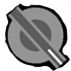
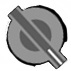
Knob graphic improved; layout changes

Changed region(s): [[0.0563, 0.0282, 0.5634, 0.6479], [0.8169, 0.5634, 0.9859, 0.9859], [0.4789, 0.8732, 0.7887, 1.0]]

diff --git a/js/main.js b/js/main.js
@@ -11,6 +11,8 @@ var down = 0;
 var storedFreqIdx = 1;
 var scanning = false;
 var instructionsVisible = 0;
+var knobImg;
+var needleImg;
 
 // on document load
 $(document).ready(function() {
@@ -18,7 +20,35 @@ $(document).ready(function() {
   createButtons();
   initialiseAudio();
   $(document).keypress(bodyKeyPress);
+  loadImages();
 });
+
+function loadImages() {
+  needleImg = new Image()
+  needleImg.onerror = function() {
+    console.log("error loading needleImg");
+  }
+  needleImg.onload = function() {
+    $(".dial")
+      .val(oscillatorFreq)
+      .trigger('change');   
+  };
+  needleImg.src = "../img/needle4.png";
+
+  knobImg = new Image()
+  needleImg.onerror = function() {
+    console.log("error loading knobImg");
+  }
+  knobImg.onload = function() {
+    $(".freqpresetknob")
+      .val(1)
+      .trigger('change');
+    $(".volumeknob")
+      .val(100)
+      .trigger('change');
+  };
+  knobImg.src = "../img/onoff_knob.png";
+}
 
 // create the various knobs
 function createKnobs() {
@@ -71,7 +101,7 @@ function createKnobs() {
     'height': 100,
   })
 
-  window.setTimeout(function() {
+  /*window.setTimeout(function() {
     $(".dial")
       .val(oscillatorFreq)
       .trigger('change');
@@ -81,7 +111,7 @@ function createKnobs() {
     $(".volumeknob")
       .val(100)
       .trigger('change');
-  }, 500);
+  }, 500); */
 }
 
 function freqpresetChanged(val) {
@@ -137,30 +167,36 @@ function decr() {
 }
 
 function drawMainFreqKnob() {
-  var knobImg = new Image();
-  knobImg.src = "img/needle4.png";
   this.g.translate(this.w / 2, this.h / 2 - 20);
   this.g.scale(0.5, 0.5);
   this.g.rotate(this.startAngle + this.angle(this.cv) + 1.57);
-  this.g.drawImage(knobImg, -knobImg.width / 2, -knobImg.height / 2);
+  try {
+    this.g.drawImage(needleImg, -needleImg.width / 2, -needleImg.height / 2);
+  } catch (e) {
+    console.log(e)
+  }
   return false;
 }
 
 function drawFreqPresetKnob() {
-  var knobImg = new Image();
-  knobImg.src = "img/onoff_knob.png";
   this.g.translate(this.w / 2 + 5, this.h / 2);
   this.g.rotate(this.startAngle + this.angle(this.cv) - 0.7);
-  this.g.drawImage(knobImg, -knobImg.width / 2, -knobImg.height / 2);
+  try {
+    this.g.drawImage(knobImg, -knobImg.width / 2, -knobImg.height / 2);
+  } catch(e) {
+    console.log(e);
+  }
   return false;
 }
 
 function drawVolumeKnob() {
-  var knobImg = new Image();
-  knobImg.src = "img/onoff_knob.png";
   this.g.translate(this.w / 2, this.h / 2);
   this.g.rotate(this.startAngle + this.angle(this.cv) - 0.7);
-  this.g.drawImage(knobImg, -knobImg.width / 2, -knobImg.height / 2);
+  try {
+    this.g.drawImage(knobImg, -knobImg.width / 2, -knobImg.height / 2);
+  } catch (e) {
+    console.log(e);
+  }
   return false;
 }
 
@@ -177,7 +213,6 @@ function createButtons() {
 }
 
 function fillSendForm() {
-  $("#username").val("foo");
   $("#thought").val($("#thoughttext").val());
   var freqs = "";
   $("#storedfreqs").children('li').each(function() {

diff --git a/index.html b/index.html
@@ -19,7 +19,7 @@
     <div id="freqnudge">
     	<input id="infknob" class="infknob" data-cursor="true" data-displayInput="false">
     </div>
-    <textarea id="thoughttext" cols="15" rows="5" style="position: relative; top: -210px; left: 35px"></textarea>
+    <textarea id="thoughttext" cols="12" rows="3">THOUGHT BOX</textarea>
   </div>
 
   <div id="freqpreset">
@@ -57,13 +57,13 @@
   </div>
 
   <div id="send_form">
-    <h3 style="position:relative;top:-10px; color:white;">RADIONICS RADIO></h3>
+    <h1 style="position:relative;top:-10px; color:white;">RADIONICS RADIO</h3>
     <form method="POST" name="contactform" action="contact-form-handler.php">
       <p>Username: <input type="text" id="username" name="username"></p>
       <input type="hidden" id="thought" name="thought">
       <input type="hidden" id="frequencies" name="frequencies">
       <input type="submit" name="submit" id="sendall" value="Send">
-      <div id="close_send_form">Cancel</div>
+      <a href="#" id="close_send_form">Cancel</a>
     </form>
   </div>
 

diff --git a/css/style.css b/css/style.css
@@ -36,15 +36,18 @@ div#volume {
 
 div#thoughtbox {
   position: absolute;
-  left: 600px;
+  left: 570px;
   top: 150px;
 }
 
 textarea#thoughttext {
   position: relative;
-  left: 10px;
-  top: 100px;
+  left: 38px;
+  top: -170px;
   background-color: #999;
+  font-size: 20px;
+  text-align: center;
+  color: white;
 }
 
 div#freqstorage {
@@ -113,12 +116,13 @@ div#instructions {
 }
 
 div#send_form {
+  font-family: sans-serif;
   position: absolute;
-  left: 100px;
-  top: 50px;
+  left: 405px;
+  top: 300px;
   background: #000;
   color: #fff;
-  width: 600px;
+  width: 220px;
   display: none;
   font-size: 12px;
   padding: 10px;
